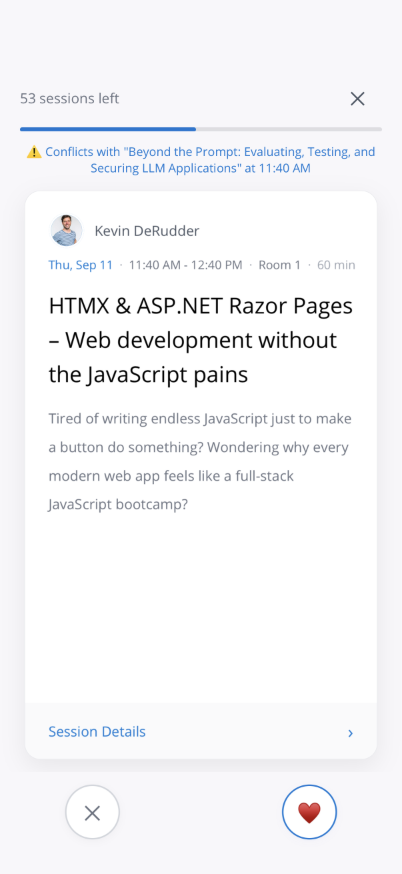
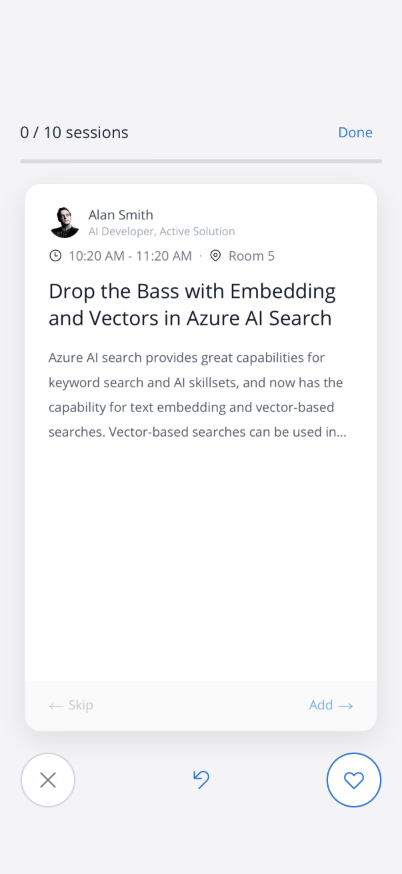
Polish onboarding QuickPick: remove conflict, hide buttons on limit, swipe overlays
- Removed conflict indicator (unnecessary for first-time onboarding)
- Hide bottom action bar when limit-reached card shows
- Restore bottom bar on undo
- Implement OnDragging handler with ADD/SKIP overlay opacity animation
- Button scale animation during drag (matches QuickPickPage)
- Stronger card shadow (Offset=0,8 Radius=24) matching QuickPickPage
- Reduced stroke thickness to 0.5 for lighter card border
- Removed conflict row from grid layout (4-row -> 3-row)

diff --git a/src/Conference.Maui/Pages/OnboardingPage.xaml b/src/Conference.Maui/Pages/OnboardingPage.xaml
@@ -418,7 +418,7 @@
 
         <!-- STEP 3: Quick Pick -->
         <Grid IsVisible="False" x:Name="QuickPickStep"
-              RowDefinitions="Auto,Auto,*,Auto" Padding="0"
+              RowDefinitions="Auto,*,Auto" Padding="0"
               Background="{AppThemeBinding Light={StaticResource Gray100}, Dark={StaticResource Gray950}}"
               SafeAreaEdges="Container">
 
@@ -441,15 +441,7 @@
                              HeightRequest="3" />
             </Grid>
 
-            <Label Grid.Row="1"
-                   Text="{Binding ConflictText}"
-                   IsVisible="{Binding HasConflict}"
-                   FontSize="12"
-                   TextColor="{StaticResource Primary}"
-                   HorizontalTextAlignment="Center"
-                   Padding="16,4" />
-
-            <Grid Grid.Row="2" Padding="16,0">
+            <Grid Grid.Row="1" Padding="16,0">
                 <swipe:SwipeCardView x:Name="OnboardingSwipeCards"
                                      ItemsSource="{Binding Cards}"
                                      Threshold="100"
@@ -467,12 +459,12 @@
                                 <!-- Main card -->
                                 <Border StrokeShape="RoundRectangle 16"
                                         Stroke="{AppThemeBinding Light={StaticResource Gray200}, Dark={StaticResource Gray700}}"
-                                        StrokeThickness="1"
+                                        StrokeThickness="0.5"
                                         BackgroundColor="{AppThemeBinding Light={StaticResource White}, Dark={StaticResource Gray900}}"
                                         Padding="0" Margin="8">
                                     <Border.Shadow>
                                         <Shadow Brush="{AppThemeBinding Light=#20000000, Dark=#40000000}"
-                                                Offset="0,4" Radius="12" Opacity="0.8" />
+                                                Offset="0,8" Radius="24" Opacity="0.7" />
                                     </Border.Shadow>
                                     <Grid RowDefinitions="Auto,Auto,Auto,*,Auto">
                                         <!-- Speaker strip -->
@@ -587,7 +579,7 @@
                         VerticalOptions="Center" HorizontalOptions="Fill">
                     <Border.Shadow>
                         <Shadow Brush="{AppThemeBinding Light=#20000000, Dark=#40000000}"
-                                Offset="0,4" Radius="12" Opacity="0.8" />
+                                Offset="0,8" Radius="24" Opacity="0.7" />
                     </Border.Shadow>
                     <VerticalStackLayout Spacing="16" HorizontalOptions="Center">
                         <Label Text="🎯" FontSize="48" HorizontalTextAlignment="Center" />
@@ -610,9 +602,10 @@
                 </Border>
             </Grid>
 
-            <Grid Grid.Row="3" Padding="20,8,20,32" ColumnDefinitions="Auto,*,Auto">
+            <Grid x:Name="QuickPickBottomBar" Grid.Row="2" Padding="20,8,20,32" ColumnDefinitions="Auto,*,Auto">
                 <!-- Skip button -->
-                <Border StrokeShape="RoundRectangle 28"
+                <Border x:Name="OnboardingSkipButton"
+                        StrokeShape="RoundRectangle 28"
                         StrokeThickness="1.5"
                         Stroke="{AppThemeBinding Light={StaticResource Gray300}, Dark={StaticResource Gray600}}"
                         BackgroundColor="{AppThemeBinding Light={StaticResource White}, Dark={StaticResource Gray900}}"
@@ -644,7 +637,8 @@
                 </Border>
 
                 <!-- Add button -->
-                <Border Grid.Column="2"
+                <Border x:Name="OnboardingAddButton"
+                        Grid.Column="2"
                         StrokeShape="RoundRectangle 28"
                         StrokeThickness="1.5"
                         Stroke="{StaticResource Primary}"

diff --git a/src/Conference.Maui/Pages/OnboardingPage.xaml.cs b/src/Conference.Maui/Pages/OnboardingPage.xaml.cs
@@ -199,6 +199,48 @@ public partial class OnboardingPage : ContentPage
 
     private void OnDragging(object sender, DraggingCardEventArgs e)
     {
+        if (e.CardView == null) return;
+
+        var likeFrame = e.CardView.FindByName<Border>("LikeFrame");
+        var nopeFrame = e.CardView.FindByName<Border>("NopeFrame");
+        if (likeFrame == null || nopeFrame == null) return;
+
+        const double threshold = 100.0;
+        var dragPercent = e.DistanceDraggedX / threshold;
+
+        switch (e.Position)
+        {
+            case DraggingCardPosition.Start:
+                likeFrame.Opacity = 0;
+                nopeFrame.Opacity = 0;
+                break;
+
+            case DraggingCardPosition.UnderThreshold:
+            case DraggingCardPosition.OverThreshold:
+                if (dragPercent > 0)
+                {
+                    likeFrame.Opacity = Math.Min(dragPercent, 1.0);
+                    nopeFrame.Opacity = 0;
+                    OnboardingAddButton.Scale = 1.0 + (Math.Min(dragPercent, 1.0) * 0.15);
+                    OnboardingSkipButton.Scale = 1.0;
+                }
+                else if (dragPercent < 0)
+                {
+                    nopeFrame.Opacity = Math.Min(Math.Abs(dragPercent), 1.0);
+                    likeFrame.Opacity = 0;
+                    OnboardingSkipButton.Scale = 1.0 + (Math.Min(Math.Abs(dragPercent), 1.0) * 0.15);
+                    OnboardingAddButton.Scale = 1.0;
+                }
+                break;
+
+            case DraggingCardPosition.FinishedOverThreshold:
+            case DraggingCardPosition.FinishedUnderThreshold:
+                likeFrame.Opacity = 0;
+                nopeFrame.Opacity = 0;
+                OnboardingAddButton.ScaleTo(1.0, 150, Easing.CubicOut);
+                OnboardingSkipButton.ScaleTo(1.0, 150, Easing.CubicOut);
+                break;
+        }
     }
 
     private void OnQuickPickSkipTapped(object? sender, TappedEventArgs e)
@@ -219,6 +261,7 @@ public partial class OnboardingPage : ContentPage
             await _viewModel.UndoLastSwipeCommand.ExecuteAsync(null);
             QuickPickLimitReached.IsVisible = false;
             OnboardingSwipeCards.IsVisible = true;
+            QuickPickBottomBar.IsVisible = true;
         }
     }
 
@@ -228,6 +271,7 @@ public partial class OnboardingPage : ContentPage
         {
             OnboardingSwipeCards.IsVisible = false;
             QuickPickLimitReached.IsVisible = true;
+            QuickPickBottomBar.IsVisible = false;
         }
     }
 

diff --git a/src/Conference.Maui/ViewModels/OnboardingViewModel.cs b/src/Conference.Maui/ViewModels/OnboardingViewModel.cs
@@ -401,15 +401,6 @@ public partial class OnboardingViewModel : ObservableObject
             _swipedThisSession++;
             ShowUndo = true;
             NotifyQuickPickChanged();
-
-            if (!HasCards)
-            {
-                // Don't auto-advance to Done — the page shows limit-reached card
-            }
-            else
-            {
-                UpdateConflictForCurrentCard();
-            }
         }
         catch (Exception ex)
         {
